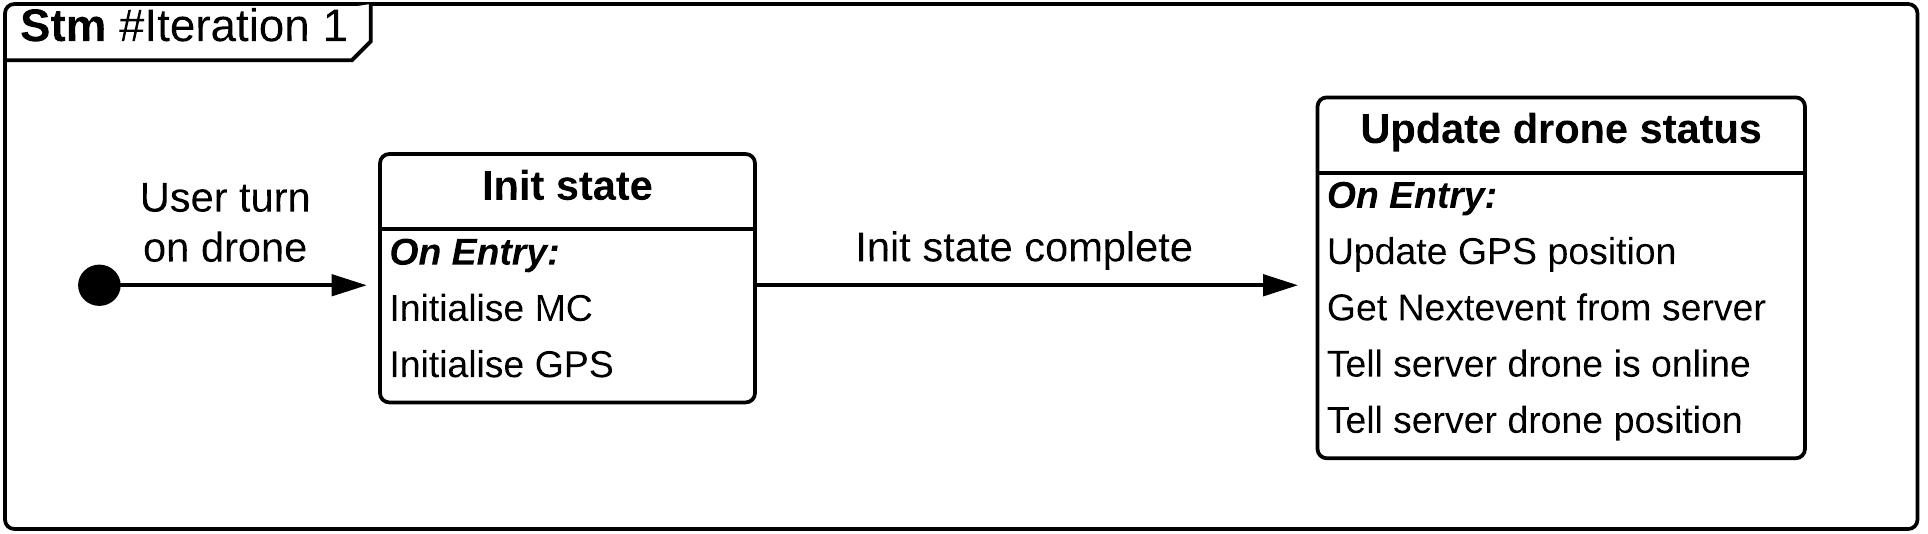
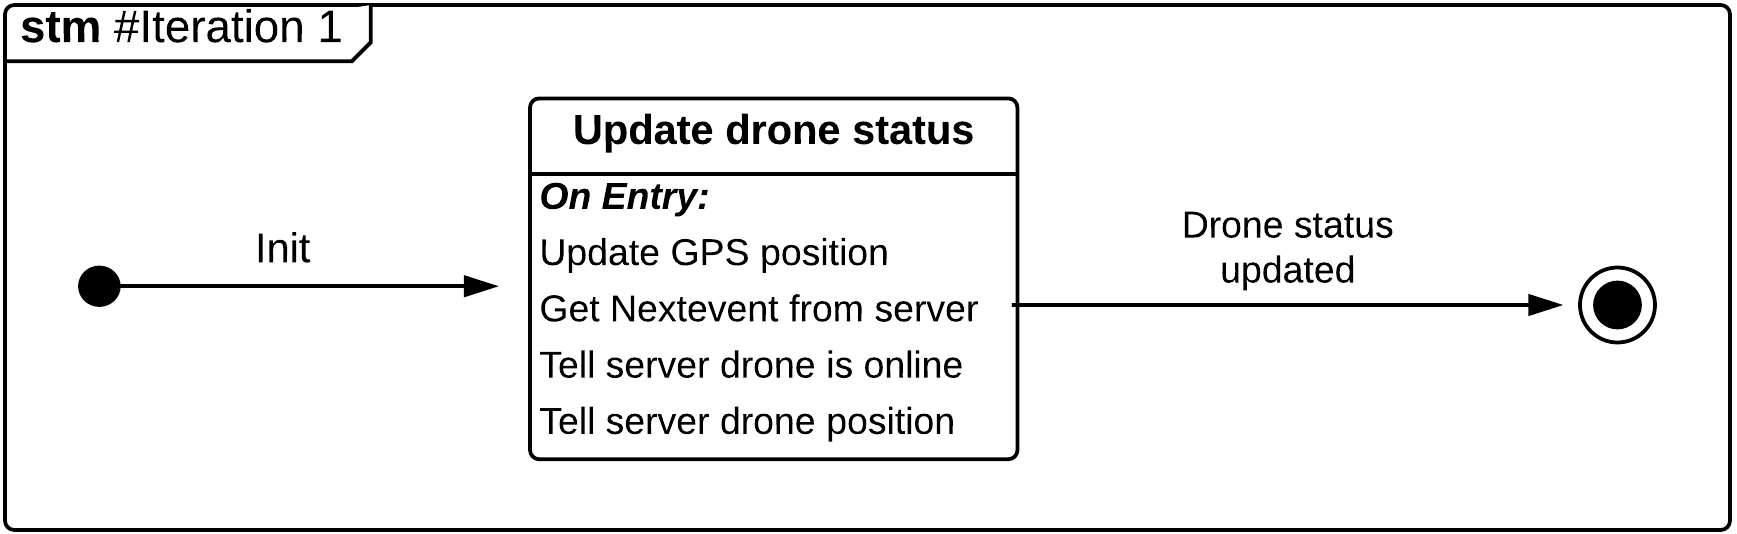
Opdateret state machines

diff --git a/5.Transition/Dokumentation/Systemarkitektur/Kapitler/software/views/logicalview_iteration_2.tex b/5.Transition/Dokumentation/Systemarkitektur/Kapitler/software/views/logicalview_iteration_2.tex
@@ -156,11 +156,14 @@ På figur \ref{fig:classDiagram_drone_underflyvning} ses klasse diagrammet for d
 
 \begin{figure}[H]
 	\centering
-	\includegraphics[width=1\textwidth]{Billeder/klasse_diagrammer/classdiagram_iteration2_fly.png}
-	\vspace{0cm}
+	\includegraphics[width=1\textwidth]{Billeder/klasse_diagrammer/classdiagram_iteration2_drone.png}
+	\vspace{-0.7cm}
 	\caption{Klassediagram drone}
 	\label{fig:classDiagram_drone_underflyvning}
 \end{figure}
+
+\textbf{Main.cpp} \\
+Main.cpp bruges til at sætte arduino board korrekt op, bla. sættes baudrate på de forskellige serielle forbindelser. Desuden bruges Main.cpp til at kalde og eksekverer forskellige klasse, objekter og funktioner.
 
 \textbf{FlightControl} \\
 Det er Flight Control klassen der har alt med styring af dronen at gøre, lige fra calibrering af motorerne til at hente data fra kompasset. 
@@ -168,21 +171,14 @@ Det er Flight Control klassen der har alt med styring af dronen at gøre, lige f
 \textbf{DistanceSensor} \\
 DistanceSensor klassen bruges til at kontrollere de sensorer der er monteret på dronen. Her er det både sensorer til højdemåling og anti kollision. 
 
+\newpage
+
 \textbf{GPS} \\
 GPS klassen er implementeret som en abstract klasse, idet den ikke selv har nogle metoder den skal bruge, men med virtuelle metoder der sikrer at de implementeres i de afledte klasser. 
 Init og updateGPSPosition er valgt til at være virtuelle klasser, hvilket gør at de skal implementeres uanset hvilken GPS der bruges. Klassen er lavet fordi der i udgangspunkt var mulighed for at bruge 3 forskellige slags GPS modes med 3G/GPS shieldet. 
 
-\newpage
-På Figur \ref{fig:classDiagram_3Gmodul} er der vist en udvidet klasse diagram for 3G modulet. På diagrammet vises de metoder og attributter der indgår i klasserne. 
-
-\begin{figure}[H]
-	\centering
-	\includegraphics[width=1\textwidth]{Billeder/klasse_diagrammer/classdiagram_3gmodule.png}
-	\vspace{0cm}
-	\caption{Klassediagram 3G modul}
-	\label{fig:classDiagram_3Gmodul}
-\end{figure}
-
+\textbf{StandaloneGPS}\\
+Denne klasse er ansvarlig for al kommunikation med GPS'en når standalone mode er valgt. 
 
 \textbf{GetAndPut} \\
 GetAndPut klassen er den klasse der er tættest på hardwaren. Klassen indeholder de http metoder der bruges til kommunikation mellem dronen og serveren. 
@@ -193,13 +189,13 @@ Communication klassen er den øverste klasse og den håndterer sammen med andre 
 \textbf{EventHandler} \\
 EventHandleren er den klasse der håndterer Events. EventHandleren er bindeledet mellem communication- og GetAndPut klassen. EventHandleren sorterer eventID'et fra de data den modtager og returnerer værdien til communication klassen.
 
-\newpage
-
 \textbf{WayPointsHandler} \\
 WayPointsHandler klassen er den klasse der håndterer de waypoints der hentes ned fra serveren. Klassen tager de waypoints den får fra serveren og gør dem tilgængeligt for resten af systemet. WayPointsHandleren bruger set metoderne i WayPoint klassen.
 
 \textbf{WayPoint} \\
 WayPoint klassen bruges til at kunne hente de forskellige waypoints ud af arrayet.  
+
+\newpage
 
 
 \subsubsection*{Klassediagram webapplikation}
@@ -231,8 +227,25 @@ Denne klasse indeholder logikken om event håndtering. Klassen bruges til at hen
 \textbf{MapServices}
 Denne klasse indeholder logikken om map håndtering. Klassen bruges til at opdatere kortet i view'et, tegne waypoints og dronen på kortet.
 
+
+\newpage
+
 \textbf{CRUDServicesDrone}
 Denne klasse fungere som bindeled imellem server og webapplikation. Klassen indeholder alt logikken omkring kommunikation til serveren, alle der vil kommunikere med serveren i systemet skal benytte sig af denne klasse. Igennem denne service er det muligt at hente, opdater og poste data til serveren.
 
 \textbf{UserServices}
 Denne klasse blev oprettet i iteration et og bruges til at gemme information omkring hvilke bruger der er logget ind i systemet.
+
+\vspace{1cm}
+
+\subsubsection*{State machine diagram}
+\vspace{-0.1cm}
+I state machine diagrammet på figur \ref{fig:Statemachine_iteration2}, vises de fire forskellige states der eksisterer til iteration 2 og hvordan flowet imellem dem ser ud. 
+%kommentar
+\begin{figure}[H]
+	\centering
+	\includegraphics[width=1\textwidth]{Billeder/statemachine/State_iteration2.png}
+	\vspace{-0.5cm}
+	\caption{State machine \#iteration 2}
+	\label{fig:Statemachine_iteration2}
+\end{figure}

diff --git a/5.Transition/Dokumentation/Systemarkitektur/Kapitler/software/views/logicalview.tex b/5.Transition/Dokumentation/Systemarkitektur/Kapitler/software/views/logicalview.tex
@@ -1,7 +1,7 @@
 \section{Logical view}
 \vspace{-0.4cm}
 Logical view'et er udarbejdet efter de 4 iterationer defineret i kravspecifikationen. Den første iteration dækker systemets grundfunktionalitet, mens de øvrige iterationer bruges til at tilføje funktionalitet til systemet. 
-I logical view'et vil der forekomme diagrammer som er gråskraveret. De elementer der er gråskraverede er udarbejdet i tidligere iteration.
+I logical view'et vil der forekomme diagrammer som er gråskraveret. De elementer der er gråskraverede er udarbejdet i tidligere iteration. Iteration 1 og 2 er designet og implementeret, mens iteration 3 og 4 kun er designet.
   
 Som beskrevet består logical viewet af designoverview, pakke-, sekvens-, klasse- og state machine diagrammer. Fælles for alle diagrammerne er, at de udformes ved brug af applikationsmodellen.
 
@@ -10,7 +10,7 @@ Som beskrevet består logical viewet af designoverview, pakke-, sekvens-, klasse
 Applikationsmodellen tager udgangspunkt i use cases beskrevet i kravspecifikationen og domain modellen, se figur \ref{fig:domain_model}. Domain modellen bruges til at identificere softwarepakke og deres tilhørende klasser. Desginoverview og sekvensdiagrammer fortæller og viser hvordan de forskellige klasser kommunikerer, og state machines bruges til at vise systemflow.
 
 
-\input{kapitler/software/views/logicalview_iteration_1}
+%\input{kapitler/software/views/logicalview_iteration_1}
 
 \newpage
 \input{kapitler/software/views/logicalview_iteration_2}

diff --git a/5.Transition/Dokumentation/Systemarkitektur/Kapitler/software/views/logicalview_iteration_1.tex b/5.Transition/Dokumentation/Systemarkitektur/Kapitler/software/views/logicalview_iteration_1.tex
@@ -120,14 +120,10 @@ Figur \ref{fig:classDiagram_iteration1} vises et klassediagram tilhørende itera
 	\label{fig:classDiagram_iteration1}
 \end{figure}
 
-
-\vspace{0.5cm}
-
+\newpage
 
 \textbf{Main.cpp} \\
 Main.cpp filen bruges til at sætte arduino board korrekt op, bla. sættes baudrate på de forskellige serielle forbindelser. Desuden bruges Main.cpp til at kalde og eksekverer forskellige klasse, objekter og funktioner.
-
-\newpage
 
 \textbf{GPS} \\
 GPS klassen er implementeret som en abstract klasse, idet den ikke selv har nogle metoder den skal bruge, men med virtuelle metoder der sikrer at de implementeres i de afledte klasser. 

diff --git a/5.Transition/Dokumentation/Systemarkitektur/Kapitler/software/software.tex b/5.Transition/Dokumentation/Systemarkitektur/Kapitler/software/software.tex
@@ -7,13 +7,13 @@ I det følgende afsnit beskrives systemet softwarearkitektur vha. N+1 view model
 \newpage
 \input{kapitler/software/views/logicalview}
 
-%\newpage
+\newpage
 %\input{kapitler/software/views/procesview}
 
-%\newpage
+\newpage
 %\input{kapitler/software/views/dataview}
 
-%\newpage
+\newpage
 %\input{kapitler/software/views/deploymentview}
 
 
